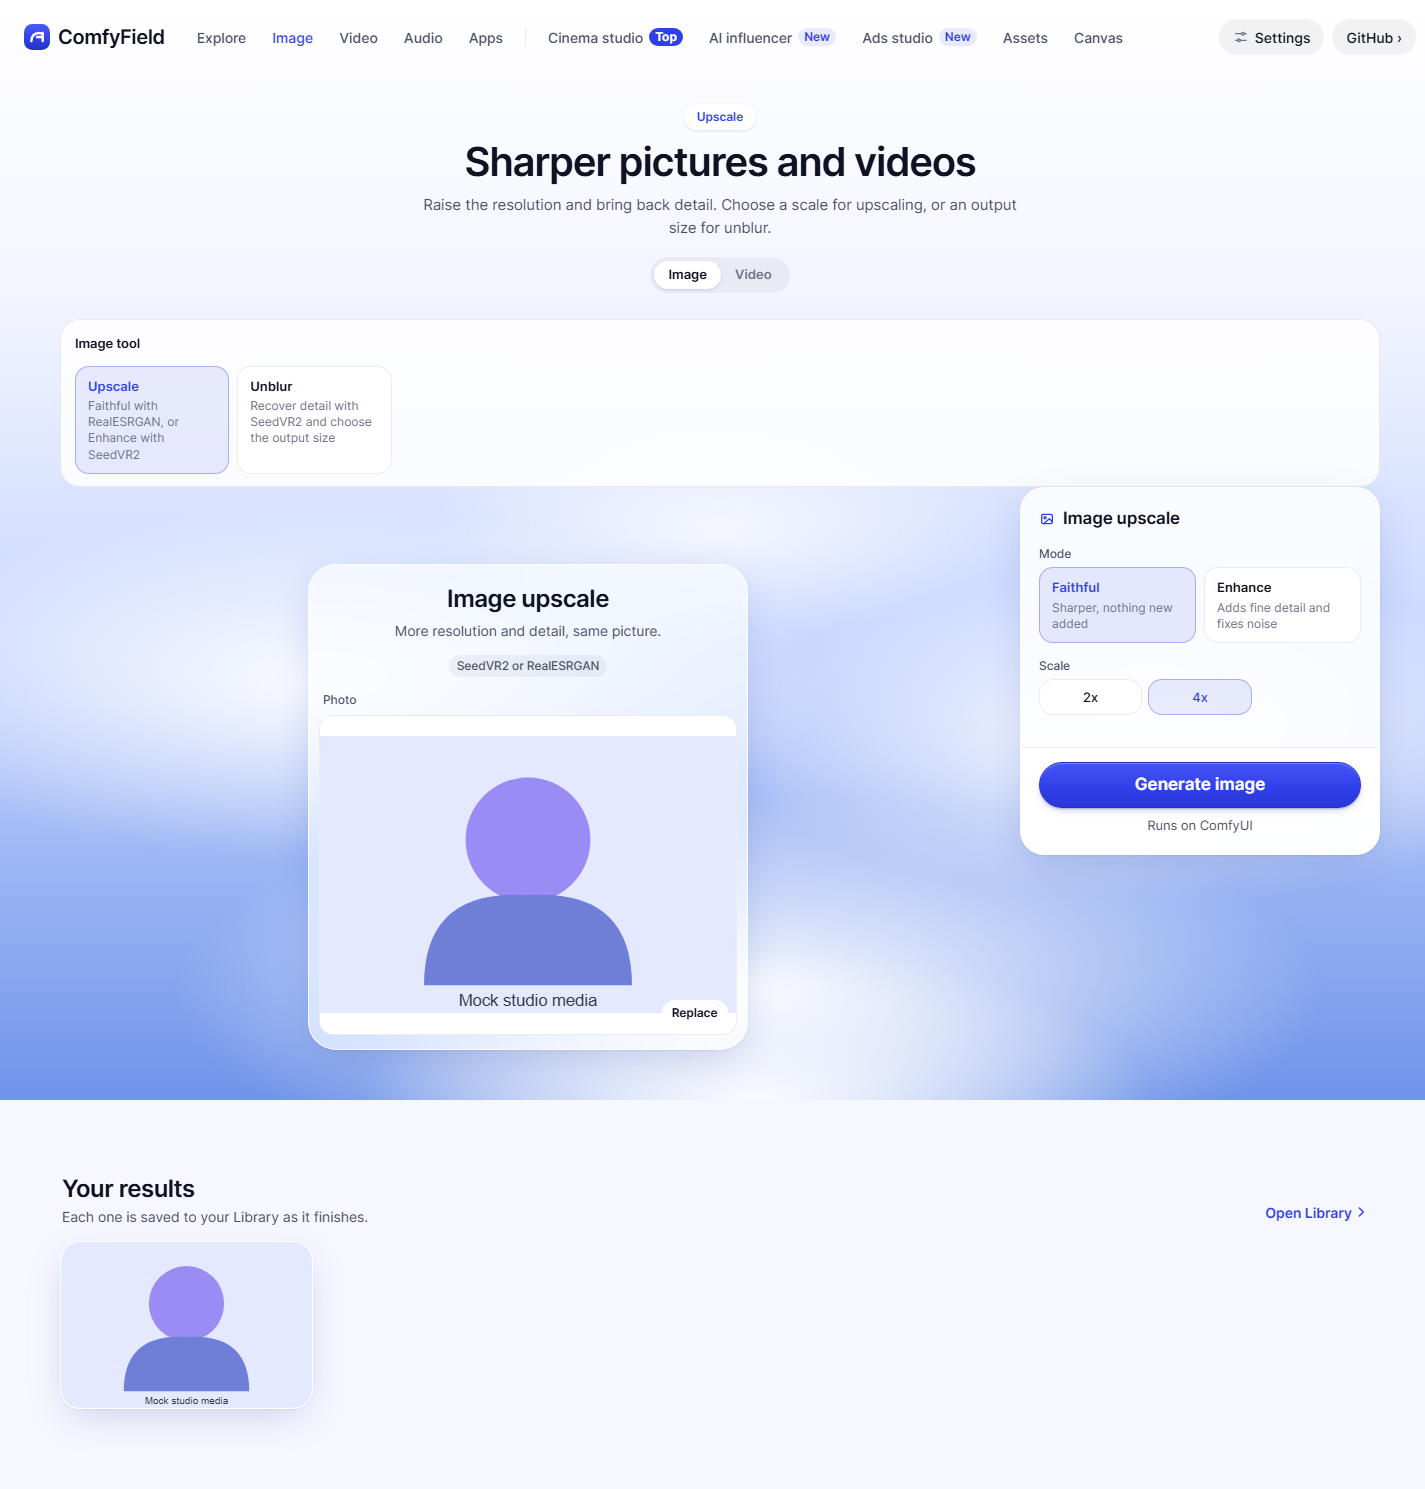
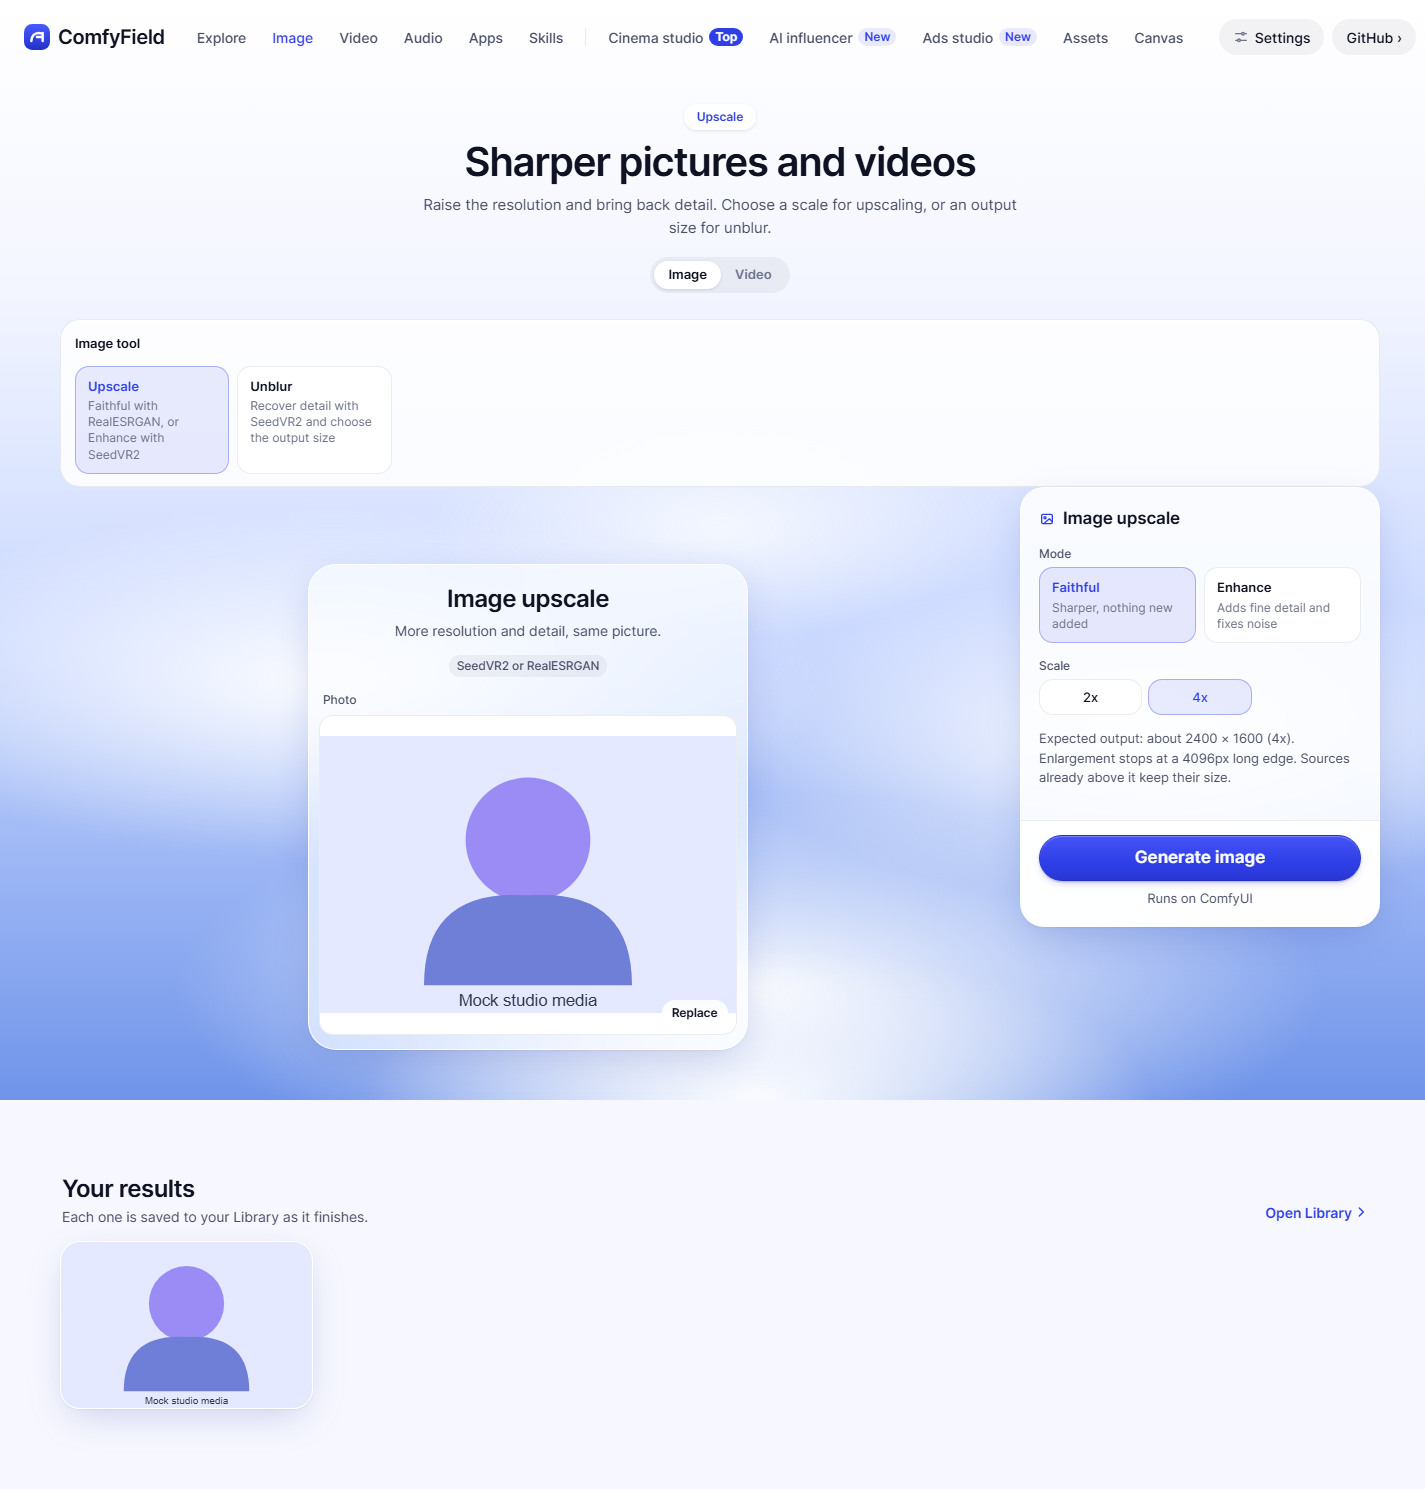
Refresh studio review evidence at desktop and 390px

Changed region(s): [[0.7102, 0.4943, 0.9881, 0.6488], [0.3705, 0.0, 0.7719, 0.0309]]

diff --git a/research_notes/screenshots/issue-101/README.md b/research_notes/screenshots/issue-101/README.md
@@ -1,11 +1,25 @@
 # Studio wiring evidence
 
-All screenshots use a production build with a local mock API. The portrait, silent color clip and tone are fixtures, not model outputs. No provider routes, keys or paid generations are used.
+The branch was rebased onto `origin/main` at `7ee3b1c`, including Instant/Session and Skills, without conflicts. The original implementation commit `3b6b1c2` became `1a8b3a9`. The final source candidate is `eeb9534737f68bea754c1ba849076ddf6db90b91`; the evidence commit changes only this directory.
 
-Reproduce with `npx vite build` followed by `node scripts/studio-ui-check.mjs`. The script opens headless Chrome only, one instance, and saves paired 1440px desktop and 390px captures for Upscale, Edit video, Audio speech, voice change, Lipsync photo, Lipsync video, Mixed media and its shared format sheet.
+All seven review findings are addressed:
 
-The browser check submits 18 mocked runs through the shared generation path and checks the submitted workflow and variables, required sample uploads, Library persistence, retained clip trim, unavailable controls and mobile overflow. `node scripts/studio-checks.mjs` additionally checks 423 runner cases against filled workflow graphs, including every mixed media look and its strength/frame-rate combinations.
+1. Audio keeps Gemini, ElevenLabs speech and sound effects, and fal models through the existing provider runner, including saved/custom picker entries. Chatterbox, Drama 3, Qwen3 and voice change use their shared format runner. Mock browser checks cover provider URLs, saved selections, a custom fal entry, payloads and Library persistence.
+2. Video lipsync separates source fps from selected seconds. Its slice is capped at 30 seconds; conditioning frames derive from duration × source fps and the available frame count. Conditioning and output use the trimmed audio. Numeric checks resolve the actual graph links at 15, 24 and 60 fps, including a selection longer than 30 seconds. Photo lipsync checks assert 750 frames / 25 fps and the 30-second audio trim directly.
+3. Qwen3 is format-only: its catalog entry is removed from the generic Flows picker, while its Audio format requires a voice sample and its model link still opens that format.
+4. Before Generate or Run, the workspace and shared sheet show the 81-frame effective range, selected start, sampling stride where relevant, and a labeled 30 fps time example. Longer trim selections remain selectable, but the note explicitly says their remainder is not generated. This discloses the graph limit rather than claiming longer graph support.
+5. Mixed media uses explicit source-frame sampling. Labels say every third, second or every frame and show actual-rate examples: 30 fps becomes 10, 15 or 30 fps. The graph receives the chosen stride. The pinned core-node schemas do not offer exact-rate conversion. Checks cover all 33 looks, strengths, strides and four source rates.
+6. Upscale shows expected dimensions and effective scale from uploaded dimensions, plus the 4096px image / 3840px video enlargement limit. A 1920 × 1080 video at 4x visibly reports 3840 × 2160 (2x). Numeric graph checks exercise the 4x cap in both image workflows and video.
+7. Drama 3 displays “Built with Fish Audio,” a short revenue/hosted-service/voice-rights note and the [license](https://huggingface.co/fishaudio/drama-3/blob/main/LICENSE) in the studio and format info. Voice samples have an adjacent consent/right-to-use line. No licensing policy decision was made; the disclosures do not establish eligibility or permission for a hosted deployment.
 
-All 33 mixed looks validate against the existing `public/workflows/bernini_mixed.json`. Translate stays disabled because `dub.json` is absent. Lipsync uses the available roughly 480p InfiniteTalk models and the first 30 seconds; 720p and Wan 2.2 S2V remain unavailable.
+The studio graph assertion recursively rejects unresolved placeholders, actual `undefined` values and embedded `undefined` text, including explicit missing-variable regressions. Studio workspaces use a second-level format heading beneath the page heading; browser checks require one page heading.
 
-Validation runs on `pi-windows` in `C:/Users/User/comfyfield-issue-101`, with Git Bash (`C:/Program Files/Git/bin`) first in that process's path. The default Windows `bash` resolved to the WSL launcher and could not execute the native Windows Pod-check fixtures. No Pod implementation files were changed.
+All screenshots use a production build with a local mock API. The portrait, silent color clip and tone are synthetic fixtures, not model outputs. No provider routes, real keys or paid generations are used. The capture waits for decoded, paused video frames.
+
+Reproduce on `pi-windows` with `npx vite build`, then `node scripts/verify.mjs`. The owned scratch clone is `D:/comfyfield-lanes/issue101-review-20261019`. Put Git Bash (`C:/Program Files/Git/bin` and `C:/Program Files/Git/usr/bin`) first in that process's path; the default Windows `bash` is the WSL launcher and cannot run the native Windows shell fixtures. Commands run sequentially, with one headless Chrome instance per browser check. Protected Pod files and main's Comfy target routing are unchanged.
+
+The suite passes all 18 check scripts, including 436 studio runner cases and 23 mocked generation requests (18 format runs plus five restored provider paths). It writes 25 labeled mock screenshots: 12 desktop/390px pairs plus the scrolled mixed-media controls capture. Exact output is in [validation.txt](validation.txt).
+
+Review examples: [video upscale cap](mock-upscale-video-390.png), [Drama 3 attribution and consent](mock-drama3-390.png), [ReCamMaster effective range](mock-reshoot-desktop.png), [mixed-media sampling and range](mock-mixed-media-sheet-controls-390.png), and [restored ElevenLabs sound effects](mock-audio-provider-390.png).
+
+Translate remains disabled because its dub graph is missing. Lipsync remains about 480p; the unavailable 720p model and Wan 2.2 S2V are still disclosed as unavailable. These checks prove local wiring and mocked provider payloads, not live generation quality.
